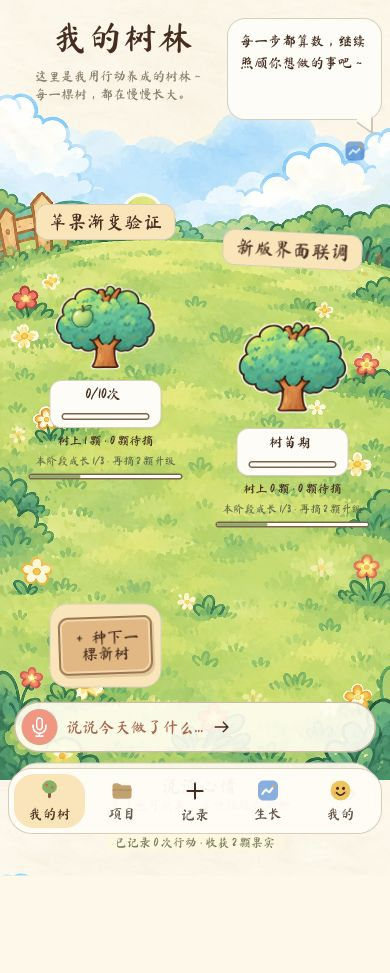
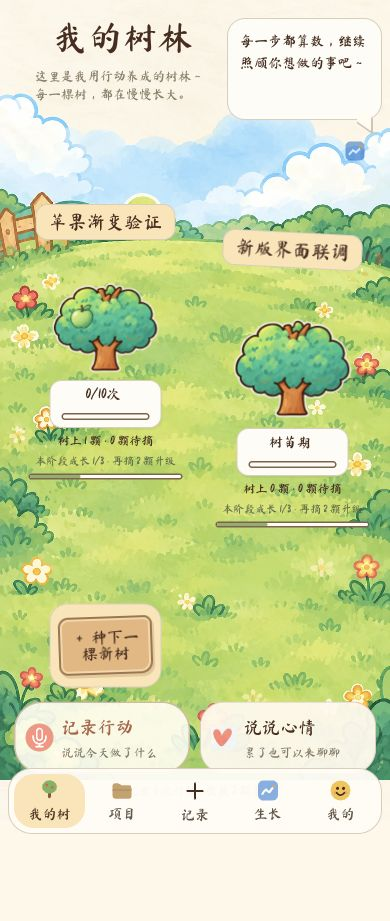
Keep action and emotion entry cards visible together

diff --git a/apps/web/src/features/home/HomePage.tsx b/apps/web/src/features/home/HomePage.tsx
@@ -99,21 +99,26 @@ export function HomePage() {
         </Link>
       </div>
       <div className="forest-footer">
-        <Link className="quick-record" to="/records">
-          <span className="mic-circle">
-            <LineIcon name="mic" size={22} />
-          </span>
-          <span>说说今天做了什么…</span>
-          <LineIcon name="arrow" size={19} />
-        </Link>
-        <Link className="forest-mood-entry" to="/feelings">
-          <Illustration name="heart" size={28} />
-          <span>
-            <strong>说说心情</strong>
-            <small>累了也可以来，苹什猫陪你聊聊</small>
-          </span>
-          <LineIcon name="arrow" size={19} />
-        </Link>
+        <div className="forest-entry-options">
+          <Link className="quick-record" to="/records">
+            <span className="mic-circle">
+              <LineIcon name="mic" size={22} />
+            </span>
+            <span>
+              <strong>记录行动</strong>
+              <small>说说今天做了什么</small>
+            </span>
+            <LineIcon name="arrow" size={19} />
+          </Link>
+          <Link className="forest-mood-entry" to="/feelings">
+            <Illustration name="heart" size={28} />
+            <span>
+              <strong>说说心情</strong>
+              <small>累了也可以来聊聊</small>
+            </span>
+            <LineIcon name="arrow" size={19} />
+          </Link>
+        </div>
         <p>
           已记录 {entries.filter((item) => item.type === 'action').length} 次行动 · 收获{' '}
           {results.filter((item) => item.harvestedAt).length} 颗果实

diff --git a/apps/web/src/styles/figma21.css b/apps/web/src/styles/figma21.css
@@ -1631,3 +1631,45 @@ body {
   margin: 10px 0 16px;
   text-align: center;
 }
+.forest-entry-options {
+  display: grid;
+  grid-template-columns: repeat(2, minmax(0, 1fr));
+  gap: 10px;
+}
+.forest-entry-options > a {
+  min-width: 0;
+  min-height: 72px;
+  margin: 0;
+  padding: 10px;
+  gap: 8px;
+  text-align: left;
+}
+.forest-entry-options > a > span:not(.mic-circle) {
+  min-width: 0;
+  flex: 1;
+}
+.forest-entry-options strong {
+  display: block;
+  font-size: 18px;
+  line-height: 1.4;
+}
+.forest-entry-options small {
+  display: block;
+  font-size: 12px;
+  line-height: 1.5;
+  margin-top: 4px;
+  color: #897e68;
+}
+.forest-entry-options .mic-circle {
+  width: 28px;
+  height: 28px;
+  flex-shrink: 0;
+}
+.forest-entry-options > a > img {
+  flex-shrink: 0;
+  width: 25px;
+  height: 25px;
+}
+.forest-entry-options > a > .journal-line-icon {
+  display: none;
+}
